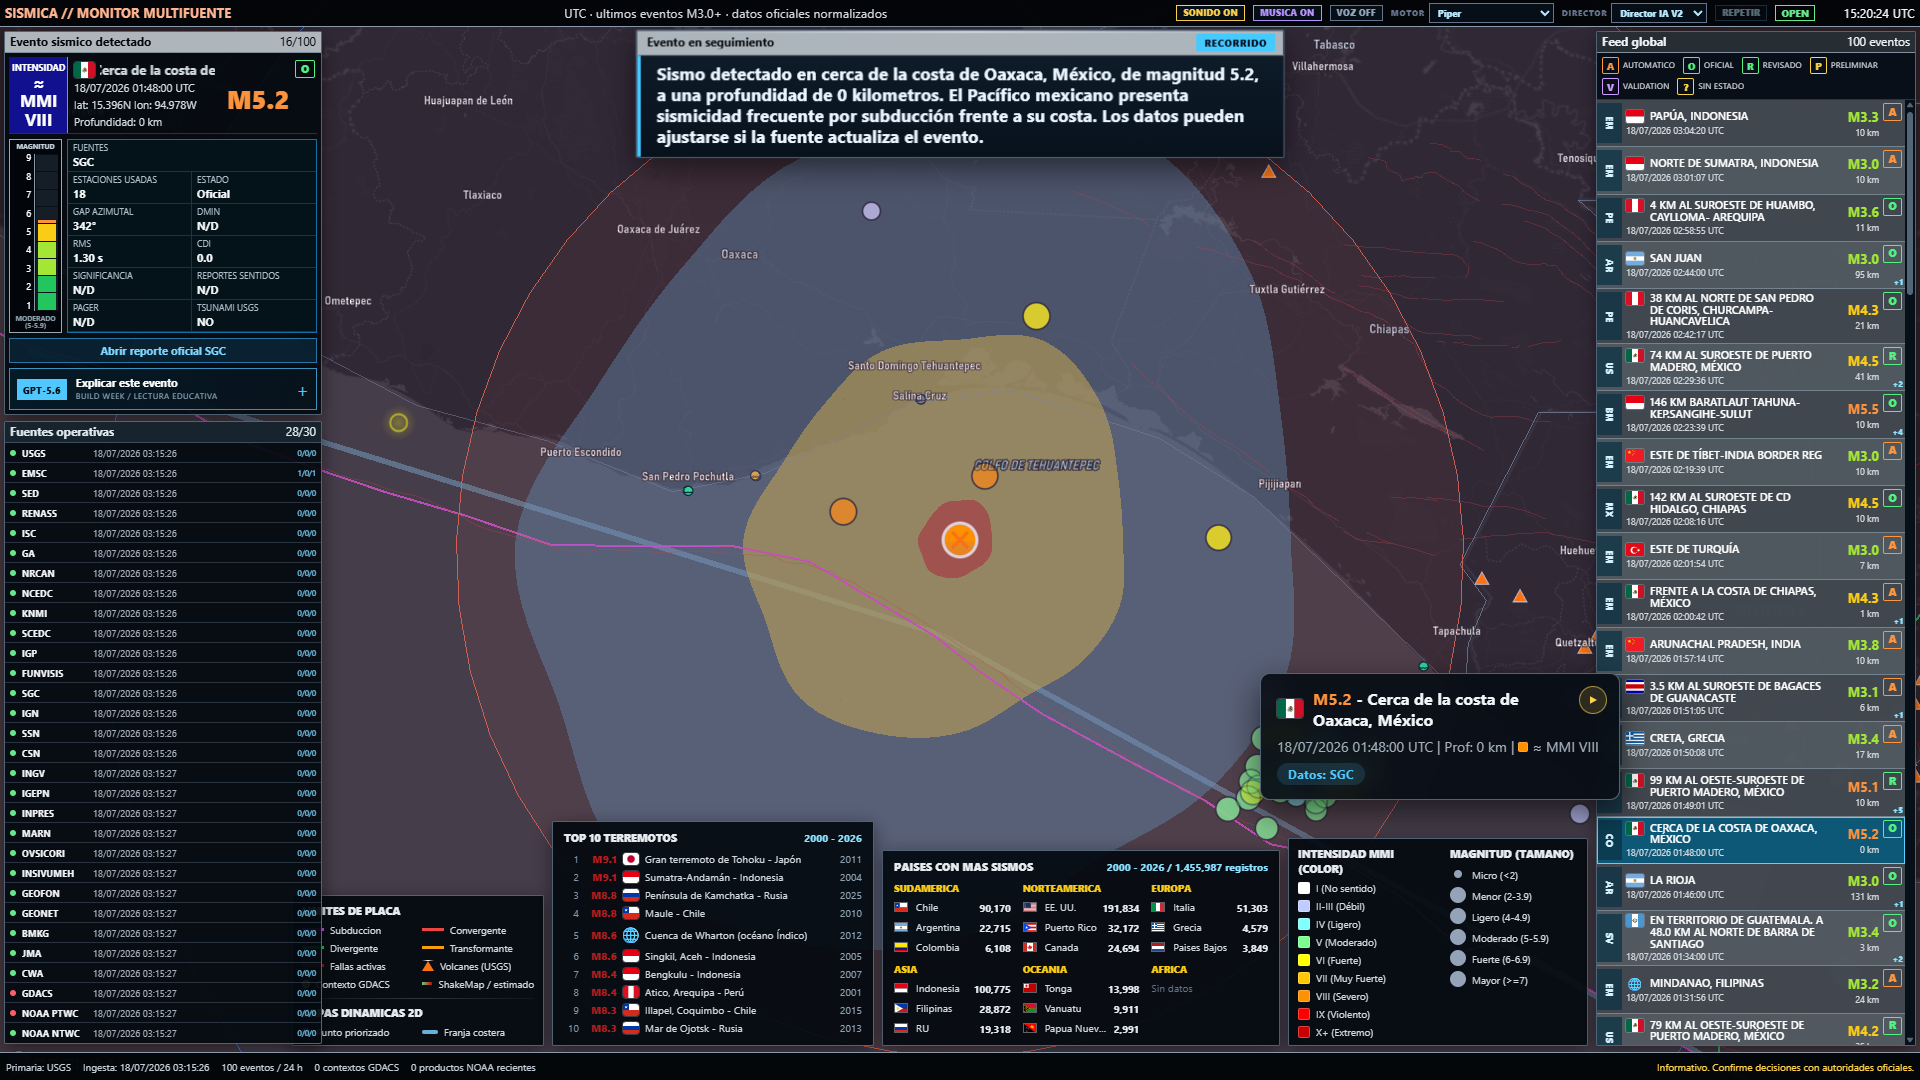
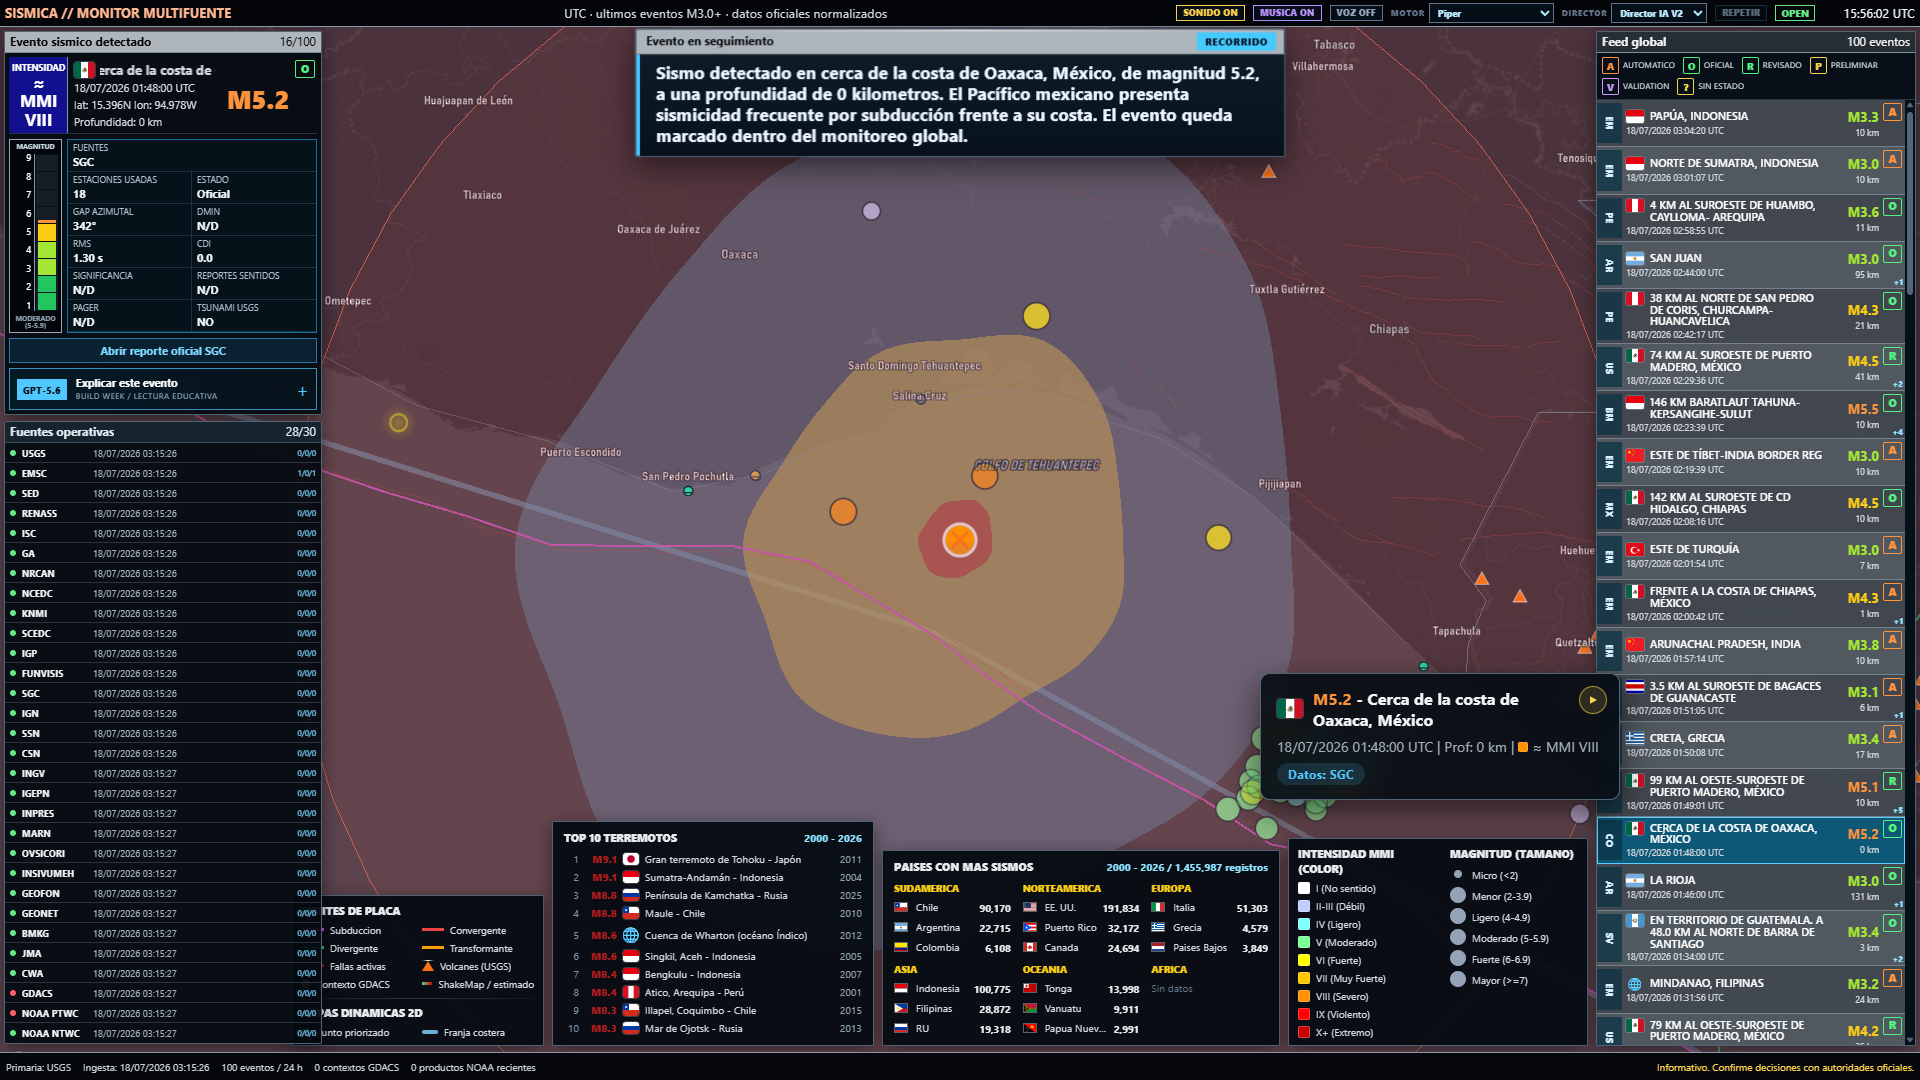
docs: recapture monitor at 90 percent zoom

diff --git a/README.md b/README.md
@@ -15,7 +15,7 @@ OpenAI Build Week 2026 submission by [KamuiSenpai](https://github.com/KamuiSenpa
 
 ![SISMICA multi-source seismic monitor focused on an event near Oaxaca, Mexico](docs/assets/sismica-monitor-2026-07-18.png)
 
-> Current reference captured on July 18, 2026 at `1920x1080` from the local API and PostgreSQL dataset, without route interception. It validates the operational UI, not consumption of the OpenAI API.
+> Current reference captured on July 18, 2026 at `1920x1080` with browser zoom at `90%`, using the local API and PostgreSQL dataset without route interception. It validates the operational UI, not consumption of the OpenAI API.
 
 ## Overview
 